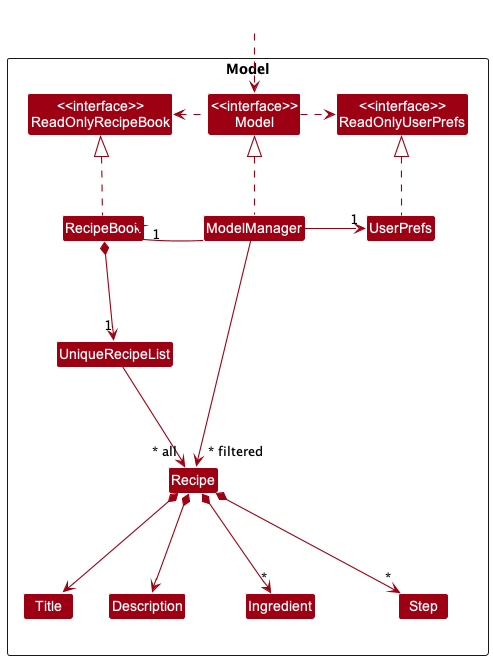
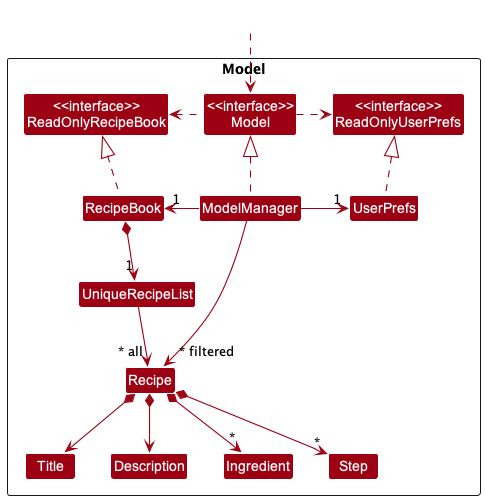
Update Developer Guide and ModelClassDiagram

diff --git a/docs/DeveloperGuide.md b/docs/DeveloperGuide.md
@@ -126,7 +126,7 @@ The `Model` component,
 * stores a `UserPref` object that represents the user’s preferences. This is exposed to the outside as a `ReadOnlyUserPref` objects.
 * does not depend on any of the other three components (as the `Model` represents data entities of the domain, they should make sense on their own without depending on other components)
 
-<div markdown="span" class="alert alert-info">:information_source: **Note:** An alternative (arguably, a more OOP) model is given below. It has a `Tag` list in the `CookHub`, which `Person` references. This allows `CookHub` to only require one `Tag` object per unique tag, instead of each `Person` needing their own `Tag` objects.<br>
+<div markdown="span" class="alert alert-info">:information_source: **Note:** An alternative (arguably, a more OOP) model is given below. It has a `Tag` list in the `CookHub`, which `Recipe` references. This allows `CookHub` to only require one `Tag` object per unique tag, instead of each `Recipe` needing their own `Tag` objects.<br>
 
 <img src="images/BetterModelClassDiagram.png" width="450" />
 
